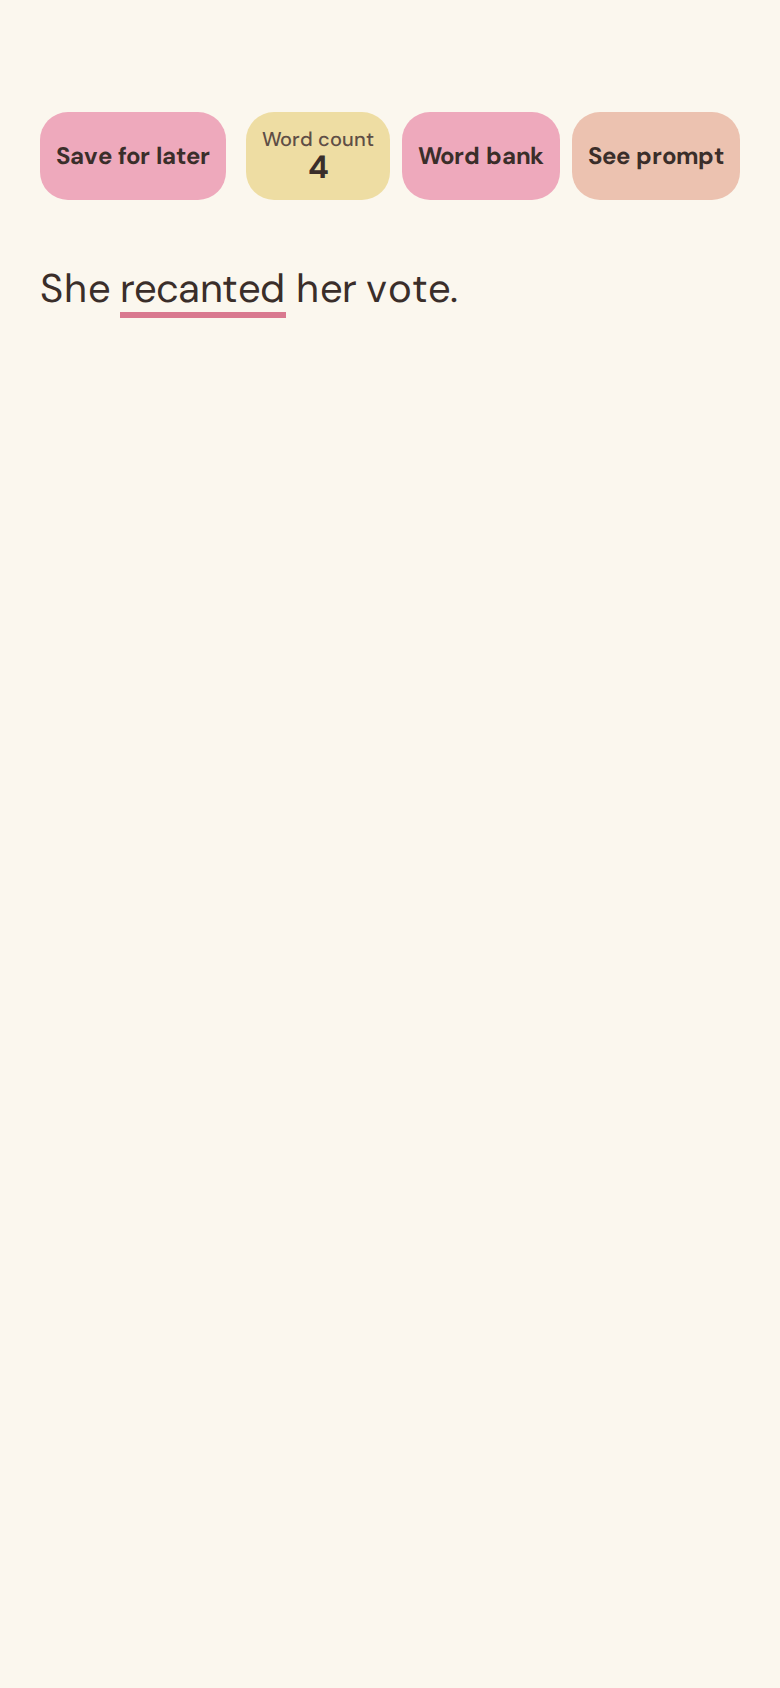
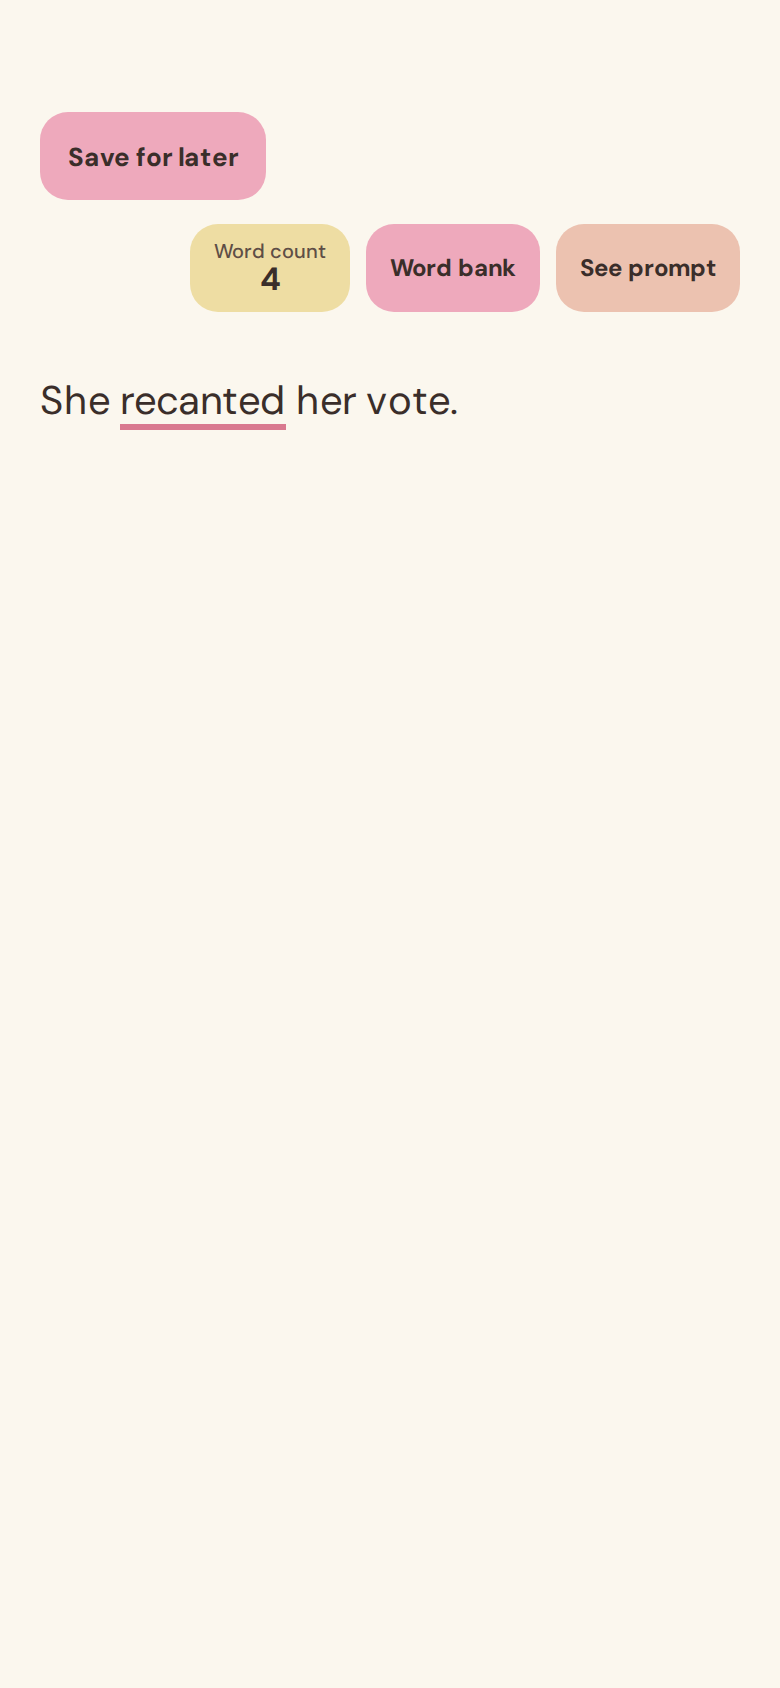
Put Save for later on its own row on the Write screen

Changed region(s): [[0.0615, 0.0616, 0.9538, 0.2773]]

diff --git a/screens/write-word-bank-open.html b/screens/write-word-bank-open.html
@@ -14,15 +14,15 @@ a{color:#3A2E2A}a:hover{color:#000}
 <body style="display:flex;justify-content:center">
 <div style="position: relative; width: 390px; height: 844px; box-sizing: border-box; background: #FBF7EE; padding: 56px 20px 32px; display: flex; flex-direction: column; gap: 28px; font-family: 'DM Sans', sans-serif; color: #3A2E2A">
 
-<div style="display: flex; justify-content: space-between; align-items: center">
-<span style="height: 44px; padding: 0 8px; display: flex; align-items: center; border-radius: 14px; background: #eea9bc; font-size: 12px; font-weight: 700">Save for later</span>
-<div style="display: flex; gap: 6px; align-items: center">
-<div style="height: 44px; box-sizing: border-box; padding: 0 8px; border-radius: 14px; background: #eedda3; display: flex; flex-direction: column; align-items: center; justify-content: center; text-align: center; line-height: 1.1; white-space: nowrap">
+<div style="display: flex; flex-direction: column; align-items: stretch; gap: 12px">
+<span style="height: 44px; align-self: flex-start; padding: 0 14px; display: flex; align-items: center; border-radius: 14px; background: #eea9bc; font-size: 13px; font-weight: 700">Save for later</span>
+<div style="align-self: flex-end; display: flex; gap: 8px; align-items: center">
+<div style="height: 44px; box-sizing: border-box; padding: 0 12px; border-radius: 14px; background: #eedda3; display: flex; flex-direction: column; align-items: center; justify-content: center; text-align: center; line-height: 1.1; white-space: nowrap">
 <span style="font-size: 10px; font-weight: 500; color: #5E4E46">Word count</span>
 <span style="font-size: 16px; font-weight: 700">4</span>
 </div>
-<span style="height: 44px; padding: 0 8px; display: flex; align-items: center; border-radius: 14px; background: #eea9bc; font-size: 12px; font-weight: 700">Word bank</span>
-<span style="height: 44px; padding: 0 8px; display: flex; align-items: center; border-radius: 14px; background: #ecc2b0; font-size: 12px; font-weight: 700">See prompt</span>
+<span style="height: 44px; padding: 0 12px; display: flex; align-items: center; border-radius: 14px; background: #eea9bc; font-size: 12px; font-weight: 700">Word bank</span>
+<span style="height: 44px; padding: 0 12px; display: flex; align-items: center; border-radius: 14px; background: #ecc2b0; font-size: 12px; font-weight: 700">See prompt</span>
 </div>
 </div>
 
@@ -30,7 +30,7 @@ a{color:#3A2E2A}a:hover{color:#000}
 
 <div style="position: absolute; left: 0; top: 0; width: 390px; height: 844px; background: rgba(58, 46, 42, 0.25)"></div>
 
-<div style="position: absolute; left: 40px; top: 120px; width: 310px; box-sizing: border-box; padding: 24px; border-radius: 24px; background: #eedda3; display: flex; flex-direction: column; align-items: center; gap: 16px">
+<div style="position: absolute; left: 40px; top: 176px; width: 310px; box-sizing: border-box; padding: 24px; border-radius: 24px; background: #eedda3; display: flex; flex-direction: column; align-items: center; gap: 16px">
 <div style="width: 100%; display: flex; justify-content: space-between; align-items: center">
 <span style="width: 44px"></span>
 <h2 style="margin: 0; font-family: Fraunces, serif; font-size: 24px; font-weight: 700">Word bank</h2>

diff --git a/screens/write.html b/screens/write.html
@@ -14,15 +14,15 @@ a{color:#3A2E2A}a:hover{color:#000}
 <body style="display:flex;justify-content:center">
 <div style="width: 390px; height: 844px; box-sizing: border-box; background: #FBF7EE; padding: 56px 20px 32px; display: flex; flex-direction: column; gap: 28px; font-family: 'DM Sans', sans-serif; color: #3A2E2A">
 
-<div style="display: flex; justify-content: space-between; align-items: center">
-<a href="home.html" style="height: 44px; padding: 0 8px; display: flex; align-items: center; border-radius: 14px; background: #eea9bc; font-size: 12px; font-weight: 700; text-decoration: none">Save for later</a>
-<div style="display: flex; gap: 6px; align-items: center">
-<div style="height: 44px; box-sizing: border-box; padding: 0 8px; border-radius: 14px; background: #eedda3; display: flex; flex-direction: column; align-items: center; justify-content: center; text-align: center; line-height: 1.1; white-space: nowrap">
+<div style="display: flex; flex-direction: column; align-items: stretch; gap: 12px">
+<a href="home.html" style="height: 44px; align-self: flex-start; padding: 0 14px; display: flex; align-items: center; border-radius: 14px; background: #eea9bc; font-size: 13px; font-weight: 700; text-decoration: none">Save for later</a>
+<div style="align-self: flex-end; display: flex; gap: 8px; align-items: center">
+<div style="height: 44px; box-sizing: border-box; padding: 0 12px; border-radius: 14px; background: #eedda3; display: flex; flex-direction: column; align-items: center; justify-content: center; text-align: center; line-height: 1.1; white-space: nowrap">
 <span style="font-size: 10px; font-weight: 500; color: #5E4E46">Word count</span>
 <span style="font-size: 16px; font-weight: 700">4</span>
 </div>
-<a href="write-word-bank-open.html" style="height: 44px; padding: 0 8px; display: flex; align-items: center; border-radius: 14px; background: #eea9bc; font-size: 12px; font-weight: 700; text-decoration: none">Word bank</a>
-<button style="height: 44px; padding: 0 8px; border: none; border-radius: 14px; background: #ecc2b0; font-family: inherit; font-size: 12px; font-weight: 700; color: #3A2E2A">See prompt</button>
+<a href="write-word-bank-open.html" style="height: 44px; padding: 0 12px; display: flex; align-items: center; border-radius: 14px; background: #eea9bc; font-size: 12px; font-weight: 700; text-decoration: none">Word bank</a>
+<button style="height: 44px; padding: 0 12px; border: none; border-radius: 14px; background: #ecc2b0; font-family: inherit; font-size: 12px; font-weight: 700; color: #3A2E2A">See prompt</button>
 </div>
 </div>
 
